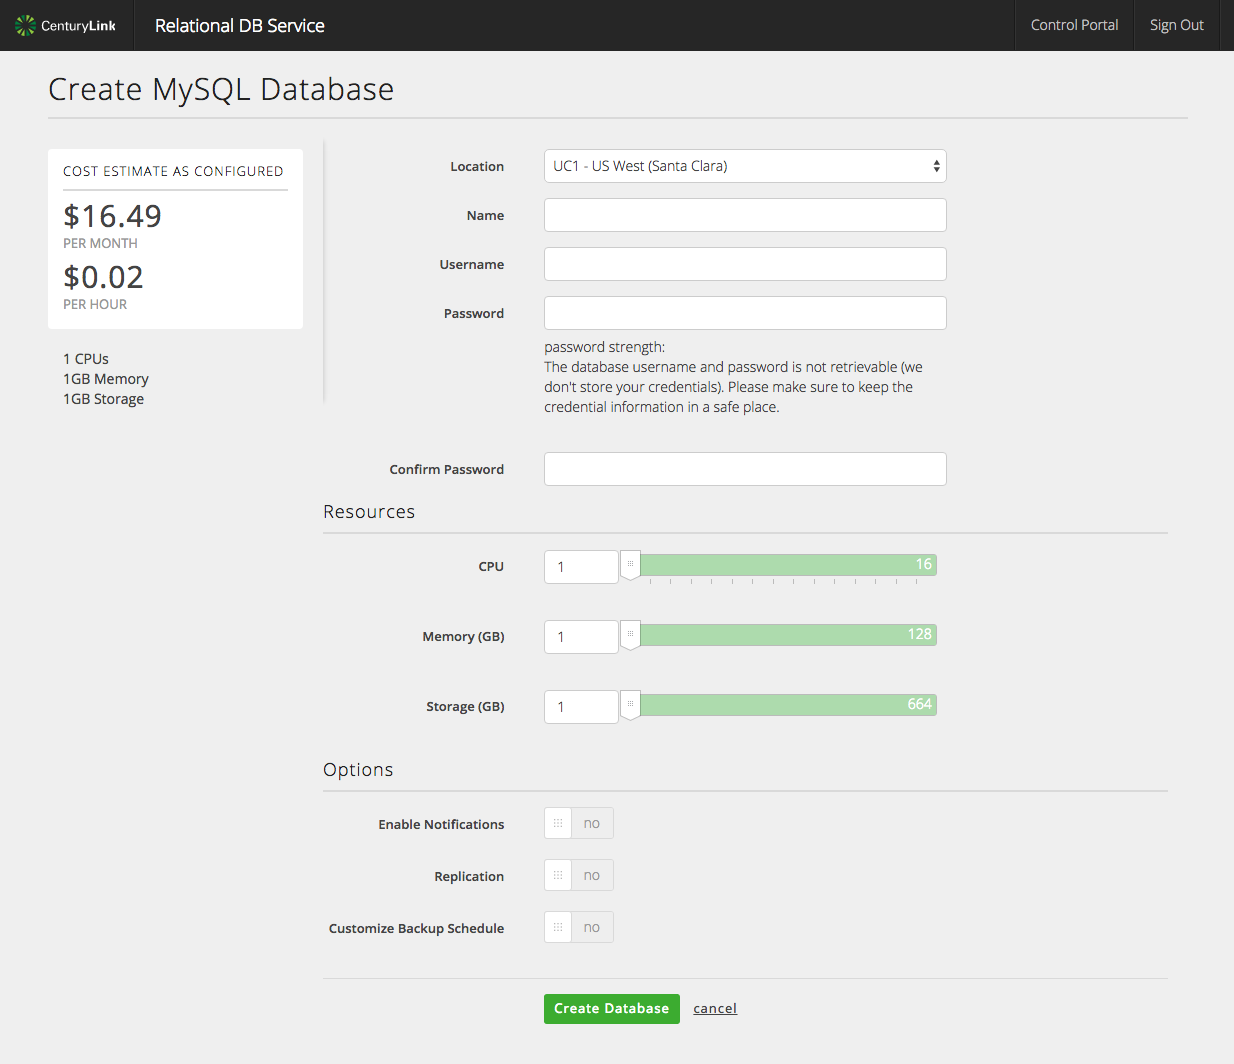
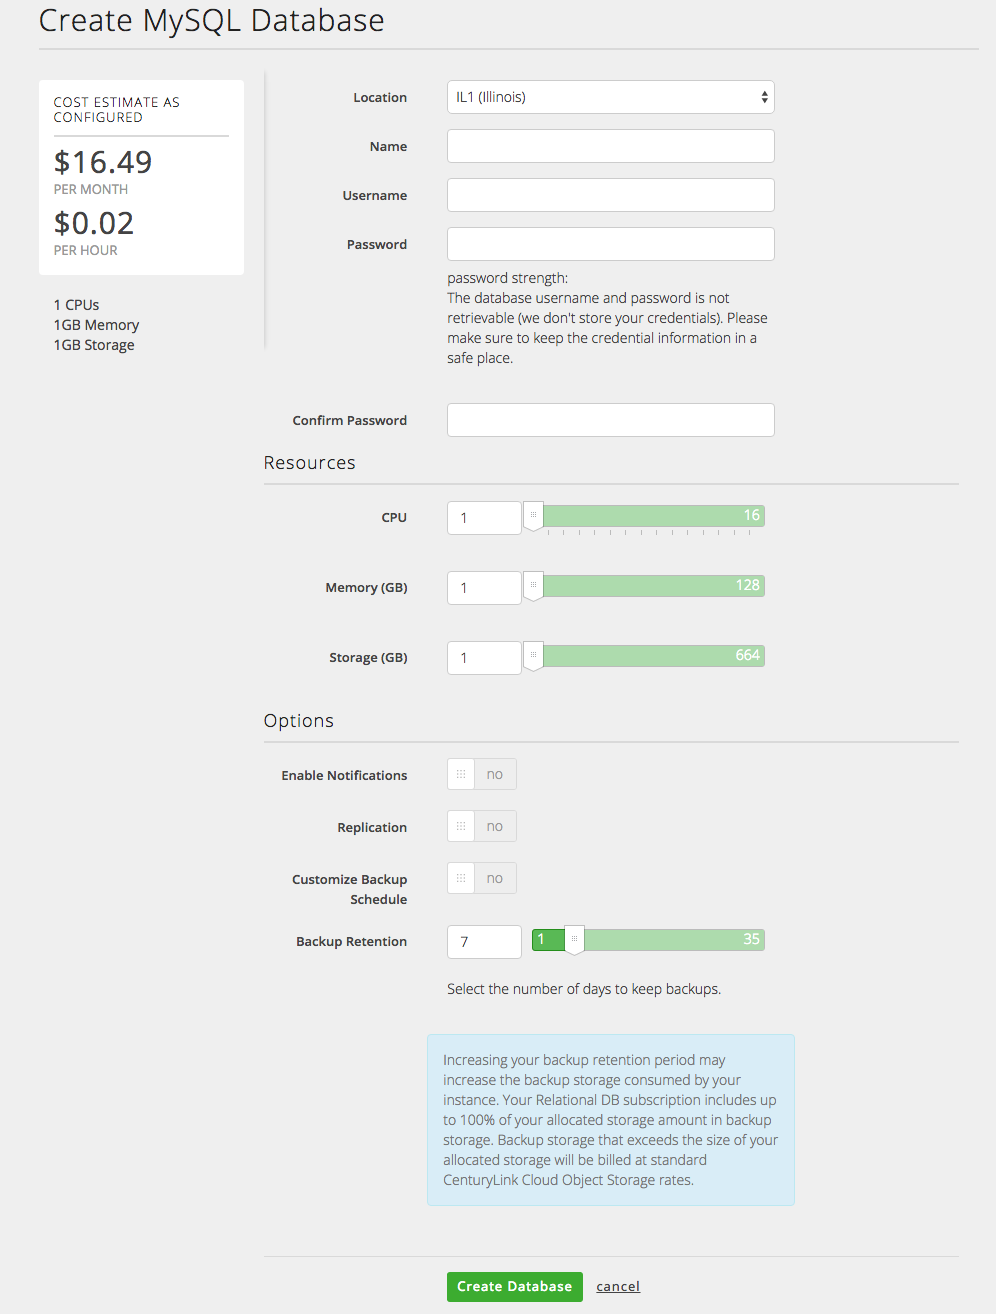
RDBS KB Updates for 0229 Release
Updated KBs to remove any reference to backups being held for 7 days
since we will be making backup retention configurable on 02/29.
Updated 2 images to reflect new features.

diff --git a/Database/getting-started-with-mysql-rdbs.md b/Database/getting-started-with-mysql-rdbs.md
@@ -1,6 +1,6 @@
 {{{
   "title": "Getting Started with Relational DB Service",
-  "date": "01-25-2016",
+  "date": "02-29-2016",
   "author": "Christine Parr",
   "attachments": [],
   "related-products" : [],
@@ -15,7 +15,7 @@ This article is to support customers of Relational DB Service, CenturyLink's MyS
 
 ## Overview
 
-CenturyLink's Relational DB Service is a MySQL-compatible database-as-a-service that provides instant access to a database instance with SSL support, daily backups held for 7 days, basic monitoring and a replication option.  Users can configure the amount of CPU, Memory and Storage based on their database needs and can choose to replicate their instance in datacenter for a more highly available solution.  As customers' capacity needs grown, they can easily scale their CPU, RAM and/or Storage through the click of a button.  
+CenturyLink's Relational DB Service is a MySQL-compatible database-as-a-service that provides instant access to a database instance with SSL support, daily backups, basic monitoring and a replication option.  Users can configure the amount of CPU, Memory and Storage based on their database needs and can choose to replicate their instance in datacenter for a more highly available solution.  As customers' capacity needs grown, they can easily scale their CPU, RAM and/or Storage through the click of a button.  
 
 For users that would like some sizing guidance, below are a few common configurations:
 
@@ -28,7 +28,7 @@ CPUs: 1 Core<br>Memory: 1 GB<br>Storage: 1 GB |CPUs: 1 Core<br>Memory: 2 GB<br>S
 - Access to the CenturyLink Cloud Platform as an authorized user.
 
 
-## Configuring a New MySQL-compatible DBaaS Subscription
+## Configuring a New MySQL-compatible Relational DB Subscription
 
 1.	Browse to CenturyLink Cloud’s Relational DB UI through the Control Portal or directly at [rdbs.ctl.io](https://rdbs.ctl.io).
 
@@ -39,24 +39,30 @@ CPUs: 1 Core<br>Memory: 1 GB<br>Storage: 1 GB |CPUs: 1 Core<br>Memory: 2 GB<br>S
 
 4. Provide values for the amount of CPU, Memory and Storage to provision. You can view the monthly and hourly pricing for the selected configuration.
 
-5. Indicate whether you would like your database instance to be replicated.  If selected, a replica of the primary database will be created and failover will occur automatically if the primary instance becomes unavailable.  The replication feature comes at a higher price point, so notice how estimated charges change when you choose Replication.  Click “Create Database”.  
+5. Indicate whether you would like your database instance to be replicated.  If selected, a replica of the primary database will be created and failover will occur automatically if the primary instance becomes unavailable.  The replication feature comes at a higher price point, so notice how estimated charges change when you choose Replication.  
 
-6.  You will quickly be returned your database information including connection string and can choose to download your certificate at that time. <p>![DBDetails](../images/rdbs-dbdetails.png)
+6.  Customize your Backup Schedule if you wish.  If no customization is made, backups will run at 0:00 UTC.  
 
-7.  You can view a list of all your database subscriptions with datacenter and connection string information on the "Database Instances" tab.    
+7.  Define your Backup Retention.  You may select any retention policy between 1 day - 35 days.  
+**Please note: Your Relational DB subscription includes up to 100% of your allocated storage amount in backup storage.  Backup storage that exceeds the size of your allocated storage will be billed at the 'Additional Backup Storage' rates defined in the pricing catalogue.  Backups are compressed in order to reduce the amount of backup storage used.**
+
+8.  Click “Create Database”.  You will quickly be returned your database information including connection string and can choose to download your certificate at that time. <p>![DBDetails](../images/rdbs-dbdetails.png)
+
+9.  You can view a list of all your database subscriptions with datacenter and connection string information on the "Database Instances" tab.    
 <p>![ListDB](../images/rdbs-dblist.png)
 
-8. Click on any instance to view subscription details and available backups or to perform any of the following actions:
+10. Click on any instance to view subscription details and available backups or to perform any of the following actions:
     - Download your certificate
     - Failover between Primary and Replica (for replicated instances only)
     - Change your alert notification settings
     - Change your scheduled backup time
+    - Change your backup retention policy
     - Scale subscription size
     - Delete your instance
     - Delete a Backup
 <p>
 <p>![SubscriptionDetails](../images/rdbs-subscriptiondetails.png)
 
-9. Use the provided connection string information to administer your MySQL instance using standard command line interface or from your favorite MySQL client.
+11. Use the provided connection string information to administer your MySQL instance using standard command line interface or from your favorite MySQL client.
 
-10.  If you have questions or feedback, please submit them to our team by emailing <a href="mailto:rdbs-help@ctl.io">rdbs-help@ctl.io</a>.
+12.  If you have questions or feedback, please submit them to our team by emailing <a href="mailto:rdbs-help@ctl.io">rdbs-help@ctl.io</a>.

diff --git a/Database/mysql-rdbs-faqs.md b/Database/mysql-rdbs-faqs.md
@@ -1,6 +1,6 @@
 {{{
   "title": "FAQs: Relational DB Service",
-  "date": "01-25-2016",
+  "date": "02-28-2016",
   "author": "Christine Parr",
   "attachments": [],
   "related-products" : [],
@@ -40,18 +40,22 @@ This article is to support customers of Relational DB Service, CenturyLink's MyS
 </p>A: Customers have the option to sign up to receive email notification when their CPU and/or storage has reached 80% capacity.  Customers who sign up for these notifications will be notified again when capacity reaches 90%.  Upon notification, customers can easily scale their database instance size through API or UI.
 
 <p><strong>Q: How can I grow or shrink my database instance?</strong>
-</p>A: Customers can easily scale their database instance size through the UI or API.  CPU and RAM can be scaled up or down and storage can be scaled up.  Adding or removing memory or reducing CPU will require a database restart.  Growing CPU or storage will not require a restart of the database.  Please see the KB article on [Resizing a Relational DB Instance](../Database/resizing-mysql-rdbs-instance.md)
+</p>A: Customers can easily scale their database instance size through the UI or API.  CPU and RAM can be scaled up or down and storage can be scaled up only.  Adding or removing memory or reducing CPU will require a database restart.  Growing CPU or storage will not require a restart of the database.  Please see the KB article on [Resizing a Relational DB Instance](../Database/resizing-mysql-rdbs-instance.md)
 </p>
 <p><strong>Q: I understand that CenturyLink is backing my data up daily.  How can I access my backups in order to restore? </strong>
 </p>
 <p>A: If you need to restore from an available backup, you can send a request to <a href="mailto:rdbs-help@ctl.io">rdbs-help@ctl.io</a> and we will work with you to restore your data.  Check back here soon though, because automated restores from backup are a planned feature!</p>
+<p><strong>Q: How long are my backups being held?
+</p>
+<p>A: At the time of Relational DB subscription creation, the user will define backup retention policy.  Customers can select a retention policy as short as 1 day or as long as 35 days.  Customers can also change the backup retention policy post-provisioning through the Subscription details page of the UI or through API.  
+</p>
 <p><strong>Q: Where are my backups being held? </strong>
 </p>
 <p>A: For disaster recovery purposes, backups are being held offsite at least 350 miles away from your primary database.  
 </p>
 <p><strong>Q: Will the product support the use of standard MySQL management tools including the ability to monitor and report on database tasks within the tool?  </strong>
 </p>
-<p>A: Yes.  Your database instance is on a dedicated VVM and there are no restrictions for any management utilities.  In fact, we expect that much of the database management will be accomplished using MySQL Command Line Interface or a MySQL client of your choice.
+<p>A: Yes.  Your database instance is on a dedicated VM and there are no restrictions for any management utilities.  In fact, we expect that much of the database management will be accomplished using MySQL Command Line Interface or a MySQL client of your choice.
 <p>
 <p><strong>Q: Are there published APIs that I can use in my own automation? </strong>
 </p>

diff --git a/Database/replication-and-failover.md b/Database/replication-and-failover.md
@@ -14,7 +14,7 @@ This article is to support customers of Relational DB Service, CenturyLink's MyS
 
 ## Overview
 
-CenturyLink's Relational DB Service is a MySQL-compatible database-as-a-service that provides instant access to a database instance with SSL support, daily backups held for 7 days, basic monitoring and a replication option.  Users can configure the amount of CPU, Memory and Storage based on their database needs and can choose to replicate their instance in datacenter for a more highly available solution.  As customers' capacity needs grown, they can easily scale their CPU, RAM and/or Storage through the click of a button.  
+CenturyLink's Relational DB Service is a MySQL-compatible database-as-a-service that provides instant access to a database instance with SSL support, daily backups, basic monitoring and a replication option.  Users can configure the amount of CPU, Memory and Storage based on their database needs and can choose to replicate their instance in datacenter for a more highly available solution.  As customers' capacity needs grown, they can easily scale their CPU, RAM and/or Storage through the click of a button.  
 
 #### Prerequisites
 

diff --git a/Database/sign-up-for-usage-alerts.md b/Database/sign-up-for-usage-alerts.md
@@ -15,7 +15,7 @@ This article is to support customers of Relational DB Service, CenturyLink's MyS
 
 ## Overview
 
-CenturyLink's Relational DB Service is a MySQL-compatible database-as-a-service that provides instant access to a database instance with SSL support, daily backups held for 7 days, basic monitoring and a replication option.  Users can configure the amount of CPU, Memory and Storage based on their database needs and can choose to replicate their instance in datacenter for a more highly available solution.  As customers' capacity needs grown, they can easily scale their CPU, RAM and/or Storage through the click of a button.  
+CenturyLink's Relational DB Service is a MySQL-compatible database-as-a-service that provides instant access to a database instance with SSL support, daily backups, basic monitoring and a replication option.  Users can configure the amount of CPU, Memory and Storage based on their database needs and can choose to replicate their instance in datacenter for a more highly available solution.  As customers' capacity needs grown, they can easily scale their CPU, RAM and/or Storage through the click of a button.  
 
 
 #### Prerequisites

diff --git a/Database/deleting-mysql-rdbs-instance.md b/Database/deleting-mysql-rdbs-instance.md
@@ -13,7 +13,7 @@ This article is to support customers of Relational DB Service, CenturyLink's MyS
 
 ## Overview
 
-CenturyLink's Relational DB Service is a MySQL-compatible database-as-a-service that provides instant access to a database instance with SSL support, daily backups held for 7 days, basic monitoring and a replication option.  Users can configure the amount of CPU, Memory and Storage based on their database needs and can choose to replicate their instance in datacenter for a more highly available solution.  As customers' capacity needs grown, they can easily scale their CPU, RAM and/or Storage through the click of a button.
+CenturyLink's Relational DB Service is a MySQL-compatible database-as-a-service that provides instant access to a database instance with SSL support, daily backups, basic monitoring and a replication option.  Users can configure the amount of CPU, Memory and Storage based on their database needs and can choose to replicate their instance in datacenter for a more highly available solution.  As customers' capacity needs grown, they can easily scale their CPU, RAM and/or Storage through the click of a button.
 
 #### Prerequisites
 

diff --git a/Database/resizing-mysql-rdbs-instance.md b/Database/resizing-mysql-rdbs-instance.md
@@ -13,7 +13,7 @@ This article is to support customers of Relational DB Service, CenturyLink's MyS
 
 ## Overview
 
-CenturyLink's Relational DB Service is a MySQL-compatible database-as-a-service that provides instant access to a database instance with SSL support, daily backups held for 7 days, basic monitoring and a replication option.  Users can configure the amount of CPU, Memory and Storage based on their database needs and can choose to replicate their instance in datacenter for a more highly available solution.  As customers' capacity needs grown, they can easily scale their CPU, RAM and/or Storage through the click of a button.
+CenturyLink's Relational DB Service is a MySQL-compatible database-as-a-service that provides instant access to a database instance with SSL support, daily backups, basic monitoring and a replication option.  Users can configure the amount of CPU, Memory and Storage based on their database needs and can choose to replicate their instance in datacenter for a more highly available solution.  As customers' capacity needs grown, they can easily scale their CPU, RAM and/or Storage through the click of a button.
 
 #### Prerequisites
 
